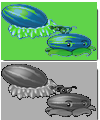
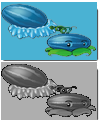
revert(classic): v3.6.2 冰西瓜卡面恢复 PVZ1 原版冰蓝画面, 回滚 v3.6.1 染绿 (v3.6.1 -> v3.6.2-restore-wintermelon-blue)

diff --git a/pvz-web/js/GameLoop.js b/pvz-web/js/GameLoop.js
@@ -354,37 +354,37 @@ class Game {
     initUI() {
         // Just define the seeds, don't populate the top bar yet
         this.seeds = [
-            { type: 'sunflower', cost: 50, cooldown: 7.5, img: 'assets/images/Card/Plants/SunFlower.png?v=1788958195' },
-            { type: 'twinsunflower', cost: 150, cooldown: 50, img: 'assets/images/Card/Plants/TwinSunflower.png?v=1788958195' },
-            { type: 'sunshroom', cost: 25, cooldown: 7.5, img: 'assets/images/Card/Plants/SunShroom.png?v=1788958195' },
-            { type: 'peashooter', cost: 100, cooldown: 7.5, img: 'assets/images/Card/Plants/Peashooter.png?v=1788958195' },
-            { type: 'repeater', cost: 200, cooldown: 7.5, img: 'assets/images/Card/Plants/Repeater.png?v=1788958195' },
-            { type: 'threepeater', cost: 300, cooldown: 7.5, img: 'assets/images/Card/Plants/Threepeater.png?v=1788958195' },
-            { type: 'gatlingpea', cost: 250, cooldown: 50, img: 'assets/images/Card/Plants/GatlingPea.png?v=1788958195' },
-            { type: 'snowpea', cost: 175, cooldown: 7.5, img: 'assets/images/Card/Plants/SnowPea.png?v=1788958195' },
-            { type: 'splitpea', cost: 125, cooldown: 7.5, img: 'assets/images/Card/Plants/SplitPea.png?v=1788958195' },
-            { type: 'torchwood', cost: 175, cooldown: 7.5, img: 'assets/images/Card/Plants/Torchwood.png?v=1788958195' },
-            { type: 'wallnut', cost: 50, cooldown: 30, img: 'assets/images/Card/Plants/WallNut.png?v=1788958195' },
-            { type: 'cherrybomb', cost: 150, cooldown: 50, img: 'assets/images/Card/Plants/CherryBomb.png?v=1788958195' },            { type: 'squash', cost: 50, cooldown: 30, img: 'assets/images/Card/Plants/Squash.png?v=1788958195' },
-            { type: 'jalapeno', cost: 125, cooldown: 50, img: 'assets/images/Card/Plants/Jalapeno.png?v=1788958195' },
-            { type: 'potatomine', cost: 25, cooldown: 30, img: 'assets/images/Card/Plants/PotatoMine.png?v=1788958195' },
-            { type: 'chomper', cost: 150, cooldown: 7.5, img: 'assets/images/Card/Plants/Chomper.png?v=1788958195' },
-            { type: 'tallnut', cost: 125, cooldown: 30, img: 'assets/images/Card/Plants/TallNut.png?v=1788958195' },
-            { type: 'puffshroom', cost: 0, cooldown: 7.5, img: 'assets/images/Card/Plants/PuffShroom.png?v=1788958195' },
-            { type: 'fumeshroom', cost: 75, cooldown: 7.5, img: 'assets/images/Card/Plants/FumeShroom.png?v=1788958195' },
-            { type: 'scaredyshroom', cost: 25, cooldown: 7.5, img: 'assets/images/Card/Plants/ScaredyShroom.png?v=1788958195' },
-            { type: 'gloomshroom', cost: 150, cooldown: 7.5, img: 'assets/images/Card/Plants/GloomShroom.png?v=1788958195' },
-            { type: 'spikerock', cost: 125, cooldown: 7.5, img: 'assets/images/Card/Plants/Spikerock.png?v=1788958195' },
-            { type: 'cattail', cost: 225, cooldown: 7.5, img: 'assets/images/Card/Plants/Cattail.png?v=1788958195' },
-            { type: 'melonpult', cost: 300, cooldown: 7.5, img: 'assets/images/Card/Plants/MelonPult.png?v=1788958195' },{ type: 'iceshroom', cost: 75, cooldown: 50, img: 'assets/images/Card/Plants/IceShroom.png?v=1788958195' },
-            { type: 'doomshroom', cost: 125, cooldown: 50, img: 'assets/images/Card/Plants/DoomShroom.png?v=1788958195' },
-            { type: 'spikeweed', cost: 100, cooldown: 7.5, img: 'assets/images/Card/Plants/Spikeweed.png?v=1788958195' },
-            { type: 'garlic', cost: 50, cooldown: 7.5, img: 'assets/images/Card/Plants/Garlic.png?v=1788958195' },
+            { type: 'sunflower', cost: 50, cooldown: 7.5, img: 'assets/images/Card/Plants/SunFlower.png?v=1788958599' },
+            { type: 'twinsunflower', cost: 150, cooldown: 50, img: 'assets/images/Card/Plants/TwinSunflower.png?v=1788958599' },
+            { type: 'sunshroom', cost: 25, cooldown: 7.5, img: 'assets/images/Card/Plants/SunShroom.png?v=1788958599' },
+            { type: 'peashooter', cost: 100, cooldown: 7.5, img: 'assets/images/Card/Plants/Peashooter.png?v=1788958599' },
+            { type: 'repeater', cost: 200, cooldown: 7.5, img: 'assets/images/Card/Plants/Repeater.png?v=1788958599' },
+            { type: 'threepeater', cost: 300, cooldown: 7.5, img: 'assets/images/Card/Plants/Threepeater.png?v=1788958599' },
+            { type: 'gatlingpea', cost: 250, cooldown: 50, img: 'assets/images/Card/Plants/GatlingPea.png?v=1788958599' },
+            { type: 'snowpea', cost: 175, cooldown: 7.5, img: 'assets/images/Card/Plants/SnowPea.png?v=1788958599' },
+            { type: 'splitpea', cost: 125, cooldown: 7.5, img: 'assets/images/Card/Plants/SplitPea.png?v=1788958599' },
+            { type: 'torchwood', cost: 175, cooldown: 7.5, img: 'assets/images/Card/Plants/Torchwood.png?v=1788958599' },
+            { type: 'wallnut', cost: 50, cooldown: 30, img: 'assets/images/Card/Plants/WallNut.png?v=1788958599' },
+            { type: 'cherrybomb', cost: 150, cooldown: 50, img: 'assets/images/Card/Plants/CherryBomb.png?v=1788958599' },            { type: 'squash', cost: 50, cooldown: 30, img: 'assets/images/Card/Plants/Squash.png?v=1788958599' },
+            { type: 'jalapeno', cost: 125, cooldown: 50, img: 'assets/images/Card/Plants/Jalapeno.png?v=1788958599' },
+            { type: 'potatomine', cost: 25, cooldown: 30, img: 'assets/images/Card/Plants/PotatoMine.png?v=1788958599' },
+            { type: 'chomper', cost: 150, cooldown: 7.5, img: 'assets/images/Card/Plants/Chomper.png?v=1788958599' },
+            { type: 'tallnut', cost: 125, cooldown: 30, img: 'assets/images/Card/Plants/TallNut.png?v=1788958599' },
+            { type: 'puffshroom', cost: 0, cooldown: 7.5, img: 'assets/images/Card/Plants/PuffShroom.png?v=1788958599' },
+            { type: 'fumeshroom', cost: 75, cooldown: 7.5, img: 'assets/images/Card/Plants/FumeShroom.png?v=1788958599' },
+            { type: 'scaredyshroom', cost: 25, cooldown: 7.5, img: 'assets/images/Card/Plants/ScaredyShroom.png?v=1788958599' },
+            { type: 'gloomshroom', cost: 150, cooldown: 7.5, img: 'assets/images/Card/Plants/GloomShroom.png?v=1788958599' },
+            { type: 'spikerock', cost: 125, cooldown: 7.5, img: 'assets/images/Card/Plants/Spikerock.png?v=1788958599' },
+            { type: 'cattail', cost: 225, cooldown: 7.5, img: 'assets/images/Card/Plants/Cattail.png?v=1788958599' },
+            { type: 'melonpult', cost: 300, cooldown: 7.5, img: 'assets/images/Card/Plants/MelonPult.png?v=1788958599' },{ type: 'iceshroom', cost: 75, cooldown: 50, img: 'assets/images/Card/Plants/IceShroom.png?v=1788958599' },
+            { type: 'doomshroom', cost: 125, cooldown: 50, img: 'assets/images/Card/Plants/DoomShroom.png?v=1788958599' },
+            { type: 'spikeweed', cost: 100, cooldown: 7.5, img: 'assets/images/Card/Plants/Spikeweed.png?v=1788958599' },
+            { type: 'garlic', cost: 50, cooldown: 7.5, img: 'assets/images/Card/Plants/Garlic.png?v=1788958599' },
             // ===== v3.6.0 经典模式新增 4 植物（数值取 PVZ1 原版；融合模式选卡仍过滤为 15 基础牌，不受影响）=====
-            { type: 'wintermelon', cost: 200, cooldown: 7.5, img: 'assets/images/Card/Plants/WinterMelon.png?v=1788958195' },
-            { type: 'starfruit', cost: 125, cooldown: 7.5, img: 'assets/images/Card/Plants/Starfruit.png?v=1788958195' },
-            { type: 'hypnoshroom', cost: 75, cooldown: 30, img: 'assets/images/Card/Plants/HypnoShroom.png?v=1788958195' },
-            { type: 'pumpkinhead', cost: 125, cooldown: 30, img: 'assets/images/Card/Plants/PumpkinHead.png?v=1788958195' }
+            { type: 'wintermelon', cost: 200, cooldown: 7.5, img: 'assets/images/Card/Plants/WinterMelon.png?v=1788958599' },
+            { type: 'starfruit', cost: 125, cooldown: 7.5, img: 'assets/images/Card/Plants/Starfruit.png?v=1788958599' },
+            { type: 'hypnoshroom', cost: 75, cooldown: 30, img: 'assets/images/Card/Plants/HypnoShroom.png?v=1788958599' },
+            { type: 'pumpkinhead', cost: 125, cooldown: 30, img: 'assets/images/Card/Plants/PumpkinHead.png?v=1788958599' }
         ];
         // The top bar will be populated in startGame() after selection
     }
@@ -416,7 +416,7 @@ class Game {
             { a: 'puffshroom', b: 'sunflower', result: '阳光菇', img: 'assets/images/Plants/SunShroom/SunShroom.gif', css: false },
             { a: 'puffshroom', b: 'peashooter', result: '胆小菇', img: 'assets/images/Plants/ScaredyShroom/ScaredyShroom.gif', css: false },
             { a: 'wallnut', b: 'jalapeno', result: '火炬树桩', img: 'assets/images/Plants/Torchwood/Torchwood.gif', css: false },
-            { a: 'chomper', b: 'tallnut', result: '西瓜投手', img: 'assets/images/Plants/MelonPult/MelonPult.png?v=1788958195', css: false },
+            { a: 'chomper', b: 'tallnut', result: '西瓜投手', img: 'assets/images/Plants/MelonPult/MelonPult.png?v=1788958599', css: false },
             { a: 'peashooter', b: 'sunflower', result: '豌豆向日葵', base: 'assets/images/Plants/SunFlower/SunFlower1.gif', over: 'assets/images/Plants/Peashooter/Peashooter.gif', overClip: 'polygon(0 0, 100% 0, 100% 65%, 0 65%)', overTransform: 'translate(0px, -20px) scale(1.0)' },
             { a: 'peashooter', b: 'wallnut', result: '坚果射手', base: 'assets/images/Plants/WallNut/WallNut.gif', over: 'assets/images/Plants/Peashooter/Peashooter.gif', overClip: 'polygon(0 0, 100% 0, 100% 65%, 0 65%)', overTransform: 'translate(5px, -15px) scale(1.0)' },
             { a: 'snowpea', b: 'cherrybomb', result: '寒冰炸弹', img: 'assets/images/Plants/CherryBomb/CherryBomb.gif', filter: 'hue-rotate(180deg) saturate(1.5)', css: false },
@@ -425,7 +425,7 @@ class Game {
             { a: 'snowpea', b: 'wallnut', result: '寒冰坚果', img: 'assets/images/Plants/WallNut/WallNut.gif', filter: 'hue-rotate(180deg) saturate(1.5) brightness(1.2)', css: false },
             { a: 'peashooter', b: 'cherrybomb', result: '樱桃射手', img: 'assets/images/Plants/Peashooter/Peashooter.gif', filter: 'hue-rotate(-45deg) saturate(2.0)', css: false },
             { a: 'sunflower', b: 'doomshroom', result: '毁灭向日葵', img: 'assets/images/Plants/SunFlower/SunFlower1.gif', filter: 'grayscale(0.8) brightness(0.6) sepia(1) hue-rotate(240deg) saturate(3)', css: false },
-            { a: 'melonpult', b: 'iceshroom', result: '冰西瓜投手', img: 'assets/images/Plants/WinterMelon/WinterMelon.png?v=1788958195', css: false },
+            { a: 'melonpult', b: 'iceshroom', result: '冰西瓜投手', img: 'assets/images/Plants/WinterMelon/WinterMelon.png?v=1788958599', css: false },
             { a: 'repeater', b: 'spikeweed', result: '猫尾草', img: 'assets/images/Plants/Cattail/Cattail.gif', css: false },
             { a: 'fumeshroom', b: 'fumeshroom', result: '忧郁菇', img: 'assets/images/Plants/GloomShroom/GloomShroom.gif', css: false },
             { a: 'spikeweed', b: 'spikeweed', result: '钢地刺', img: 'assets/images/Plants/Spikerock/Spikerock.gif', css: false },
@@ -435,8 +435,8 @@ class Game {
             { a: 'splitpea', b: 'sunflower', result: '杨桃', img: 'assets/images/Plants/Starfruit/Starfruit.gif', css: false },
             { a: 'puffshroom', b: 'garlic', result: '魅惑菇', img: 'assets/images/Plants/HypnoShroom/HypnoShroom.gif', css: false },
             { a: 'wallnut', b: 'tallnut', result: '南瓜壳（可套在任意植物上）', img: 'assets/images/Plants/PumpkinHead/PumpkinHead.gif', css: false },
-            { a: 'melonpult', b: 'cattail', result: '西瓜猫尾草', base: 'assets/images/Plants/Cattail/Cattail.gif', over: 'assets/images/Plants/MelonPult/MelonPult.png?v=1788958195', overTransform: 'translate(-5px, -30px) scale(0.7)' },
-            { a: 'wintermelon', b: 'cattail', result: '冰西瓜猫尾草', base: 'assets/images/Plants/Cattail/Cattail.gif', over: 'assets/images/Plants/WinterMelon/WinterMelon.png?v=1788958195', overTransform: 'translate(-5px, -30px) scale(0.7)' }
+            { a: 'melonpult', b: 'cattail', result: '西瓜猫尾草', base: 'assets/images/Plants/Cattail/Cattail.gif', over: 'assets/images/Plants/MelonPult/MelonPult.png?v=1788958599', overTransform: 'translate(-5px, -30px) scale(0.7)' },
+            { a: 'wintermelon', b: 'cattail', result: '冰西瓜猫尾草', base: 'assets/images/Plants/Cattail/Cattail.gif', over: 'assets/images/Plants/WinterMelon/WinterMelon.png?v=1788958599', overTransform: 'translate(-5px, -30px) scale(0.7)' }
         ];
         
         const list = document.getElementById('recipe-list');
@@ -467,8 +467,8 @@ class Game {
                     'fumeshroom': 'assets/images/Plants/FumeShroom/FumeShroom.gif',
                     'spikeweed': 'assets/images/Plants/Spikeweed/Spikeweed.gif',
                     'tallnut': 'assets/images/Plants/TallNut/TallNut.gif',
-                    'melonpult': 'assets/images/Plants/MelonPult/MelonPult.png?v=1788958195',
-                    'wintermelon': 'assets/images/Plants/WinterMelon/WinterMelon.png?v=1788958195',
+                    'melonpult': 'assets/images/Plants/MelonPult/MelonPult.png?v=1788958599',
+                    'wintermelon': 'assets/images/Plants/WinterMelon/WinterMelon.png?v=1788958599',
                     'cattail': 'assets/images/Plants/Cattail/Cattail.gif',
                     'gloomshroom': 'assets/images/Plants/GloomShroom/GloomShroom.gif',
                     'spikerock': 'assets/images/Plants/Spikerock/Spikerock.gif',
@@ -1203,7 +1203,7 @@ class Game {
                           : vType === 'zombie' ? 'Vase_Zombie.png'
                           : 'Vase_Question.png';
             const img = document.createElement('img');
-            img.src = 'assets/images/Vase/' + sprite + '?v=1788958195'; // v= 占位,bump_version 替换为新 cache-buster
+            img.src = 'assets/images/Vase/' + sprite + '?v=1788958599'; // v= 占位,bump_version 替换为新 cache-buster
             img.className = 'entity vase-entity';
             img.style.pointerEvents = 'none';
             const cx = this.board.offsetX + v.col * this.board.cellWidth + this.board.cellWidth / 2;

diff --git a/pvz-web/index.html b/pvz-web/index.html
@@ -4,7 +4,7 @@
     <meta charset="UTF-8" data-page-node-id="fvct4kKB77qx0aDFZg0TFG">
     <meta name="viewport" content="width=device-width, initial-scale=1.0" data-page-node-id="7cXFTDee52Hp5l8aujUlmz">
     <title>Plants vs Zombies - Web Clone</title>
-    <link rel="stylesheet" href="css/style.css?v=1788958195" data-page-node-id="Q5lrPWp6xqtldfdpxSWXxH">
+    <link rel="stylesheet" href="css/style.css?v=1788958599" data-page-node-id="Q5lrPWp6xqtldfdpxSWXxH">
 </head>
 <body data-page-node-id="lPg8spSQ9t6E6ZEWT8akzU">
     <div id="game-container" data-page-node-id="dle8H483OJAxh7uRwqXTVW">
@@ -295,16 +295,16 @@
                 });
         })();
     </script>
-    <script src="js/InputManager.js?v=1788958195"></script>
-    <script src="js/Board.js?v=1788958195"></script>
-    <script src="js/entities/Entity.js?v=1788958195"></script>
-    <script src="js/entities/Plant.js?v=1788958195"></script>
-    <script src="js/entities/Zombie.js?v=1788958195"></script>
-    <script src="js/entities/Projectile.js?v=1788958195"></script>
-    <script src="js/entities/Sun.js?v=1788958195"></script>
-    <script src="js/managers/WaveManager.js?v=1788958195"></script>
-    <script src="js/managers/CollisionManager.js?v=1788958195"></script>
-    <script src="js/managers/EventManager.js?v=1788958195"></script>
-    <script src="js/GameLoop.js?v=1788958195"></script>
+    <script src="js/InputManager.js?v=1788958599"></script>
+    <script src="js/Board.js?v=1788958599"></script>
+    <script src="js/entities/Entity.js?v=1788958599"></script>
+    <script src="js/entities/Plant.js?v=1788958599"></script>
+    <script src="js/entities/Zombie.js?v=1788958599"></script>
+    <script src="js/entities/Projectile.js?v=1788958599"></script>
+    <script src="js/entities/Sun.js?v=1788958599"></script>
+    <script src="js/managers/WaveManager.js?v=1788958599"></script>
+    <script src="js/managers/CollisionManager.js?v=1788958599"></script>
+    <script src="js/managers/EventManager.js?v=1788958599"></script>
+    <script src="js/GameLoop.js?v=1788958599"></script>
 </body>
 </html>

diff --git a/pvz-web/js/entities/Projectile.js b/pvz-web/js/entities/Projectile.js
@@ -19,12 +19,12 @@ class Projectile extends Entity {
             this.element.src = 'assets/images/Plants/ShroomBullet.gif';
             this.damage = 40;
         } else if (type === 'melon') {
-            this.element.src = 'assets/images/Plants/MelonPult/Melon.png?v=1788958195';
+            this.element.src = 'assets/images/Plants/MelonPult/Melon.png?v=1788958599';
             this.element.style.transform = 'scale(1.0)';
             this.element.style.borderRadius = '50%';
             this.damage = 60;
         } else if (type === 'wintermelon') {
-            this.element.src = 'assets/images/Plants/MelonPult/WinterMelon.png?v=1788958195';
+            this.element.src = 'assets/images/Plants/MelonPult/WinterMelon.png?v=1788958599';
             this.element.style.transform = 'scale(1.0)';
             this.element.style.borderRadius = '50%';
             this.damage = 60;
@@ -34,13 +34,13 @@ class Projectile extends Entity {
             this.damage = 20;
             this.speed = 400;
         } else if (type === 'cattail_melon') {
-            this.element.src = 'assets/images/Plants/MelonPult/Melon_small.png?v=1788958195';
+            this.element.src = 'assets/images/Plants/MelonPult/Melon_small.png?v=1788958599';
             this.element.style.transform = 'scale(0.8)';
             this.element.style.borderRadius = '50%';
             this.damage = 60;
             this.speed = 400;
         } else if (type === 'cattail_wintermelon') {
-            this.element.src = 'assets/images/Plants/MelonPult/WinterMelon_small.png?v=1788958195';
+            this.element.src = 'assets/images/Plants/MelonPult/WinterMelon_small.png?v=1788958599';
             this.element.style.transform = 'scale(0.8)';
             this.element.style.borderRadius = '50%';
             this.damage = 60;

diff --git a/pvz-web/js/entities/Plant.js b/pvz-web/js/entities/Plant.js
@@ -153,12 +153,12 @@ class Plant extends Entity {
             stat.hp = 300;
             stat.fireRate = 1.0;
             stat.fireTimer = 0;
-            stat.src = 'assets/images/Plants/MelonPult/MelonPult.png?v=1788958195';
+            stat.src = 'assets/images/Plants/MelonPult/MelonPult.png?v=1788958599';
         } else if (type === 'wintermelon') {
             stat.hp = 300;
             stat.fireRate = 1.0;
             stat.fireTimer = 0;
-            stat.src = 'assets/images/Plants/WinterMelon/WinterMelon.png?v=1788958195';
+            stat.src = 'assets/images/Plants/WinterMelon/WinterMelon.png?v=1788958599';
         } else if (type === 'starfruit') {
             // 杨桃（v3.6.0 经典模式可种）：五向星光射击，弹道复用融合版（Projectile 'star'）
             stat.hp = 300;
@@ -182,7 +182,7 @@ class Plant extends Entity {
             // 不攻击、不产太阳，仅在种植瞬间触发 lightUpNeighbors 照亮周围一圈罐子。
             // 0.gif 250×237 透明大画布，比 Plantern.gif 20 帧夜版更适合白天场地。
             stat.hp = 300;
-            stat.src = 'assets/images/Plants/Plantern/0.gif?v=1788958195';
+            stat.src = 'assets/images/Plants/Plantern/0.gif?v=1788958599';
             stat.yOffset = 0;
         }
 

diff --git a/pvz-web/js/InputManager.js b/pvz-web/js/InputManager.js
@@ -162,8 +162,8 @@ class InputManager {
             // Melon / Winter Melon 图是 PNG，其他植物是 GIF
             const isMelonSprite = imgName === 'MelonPult/MelonPult' || imgName === 'WinterMelon/WinterMelon';
             const url = isMelonSprite
-                ? `assets/images/Plants/${imgName}.png?v=1788958195`
-                : `assets/images/Plants/${imgName}.gif?v=1788958195`;
+                ? `assets/images/Plants/${imgName}.png?v=1788958599`
+                : `assets/images/Plants/${imgName}.gif?v=1788958599`;
             this.dragGhost.style.backgroundImage = `url('${url}')`;
         }
     }
